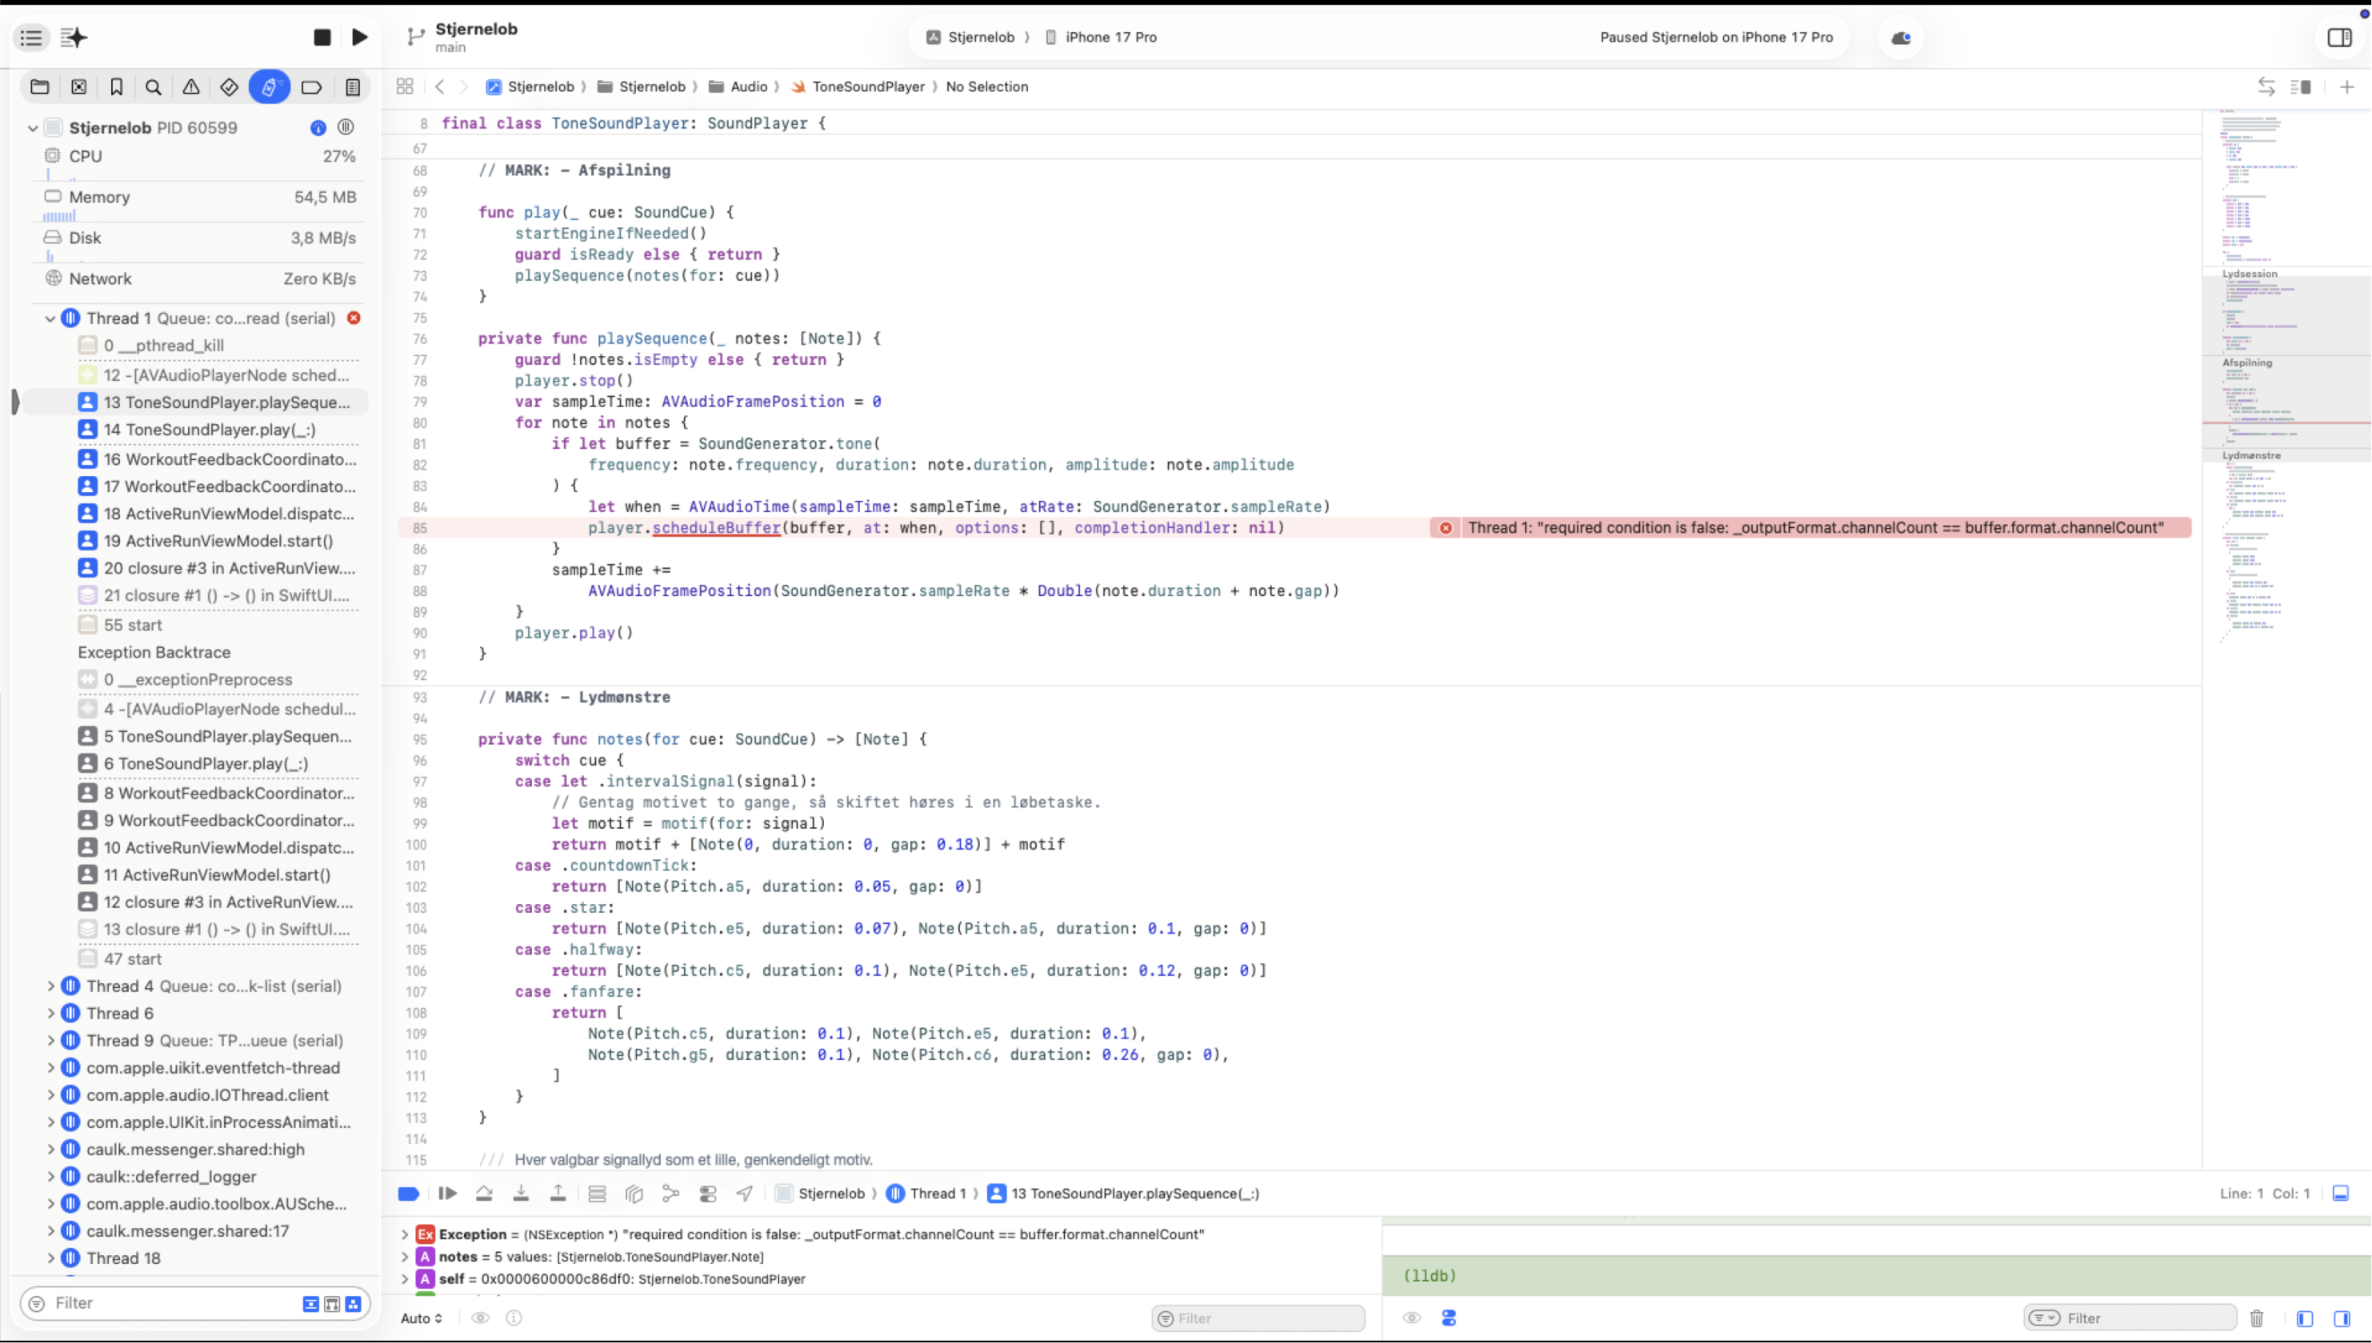
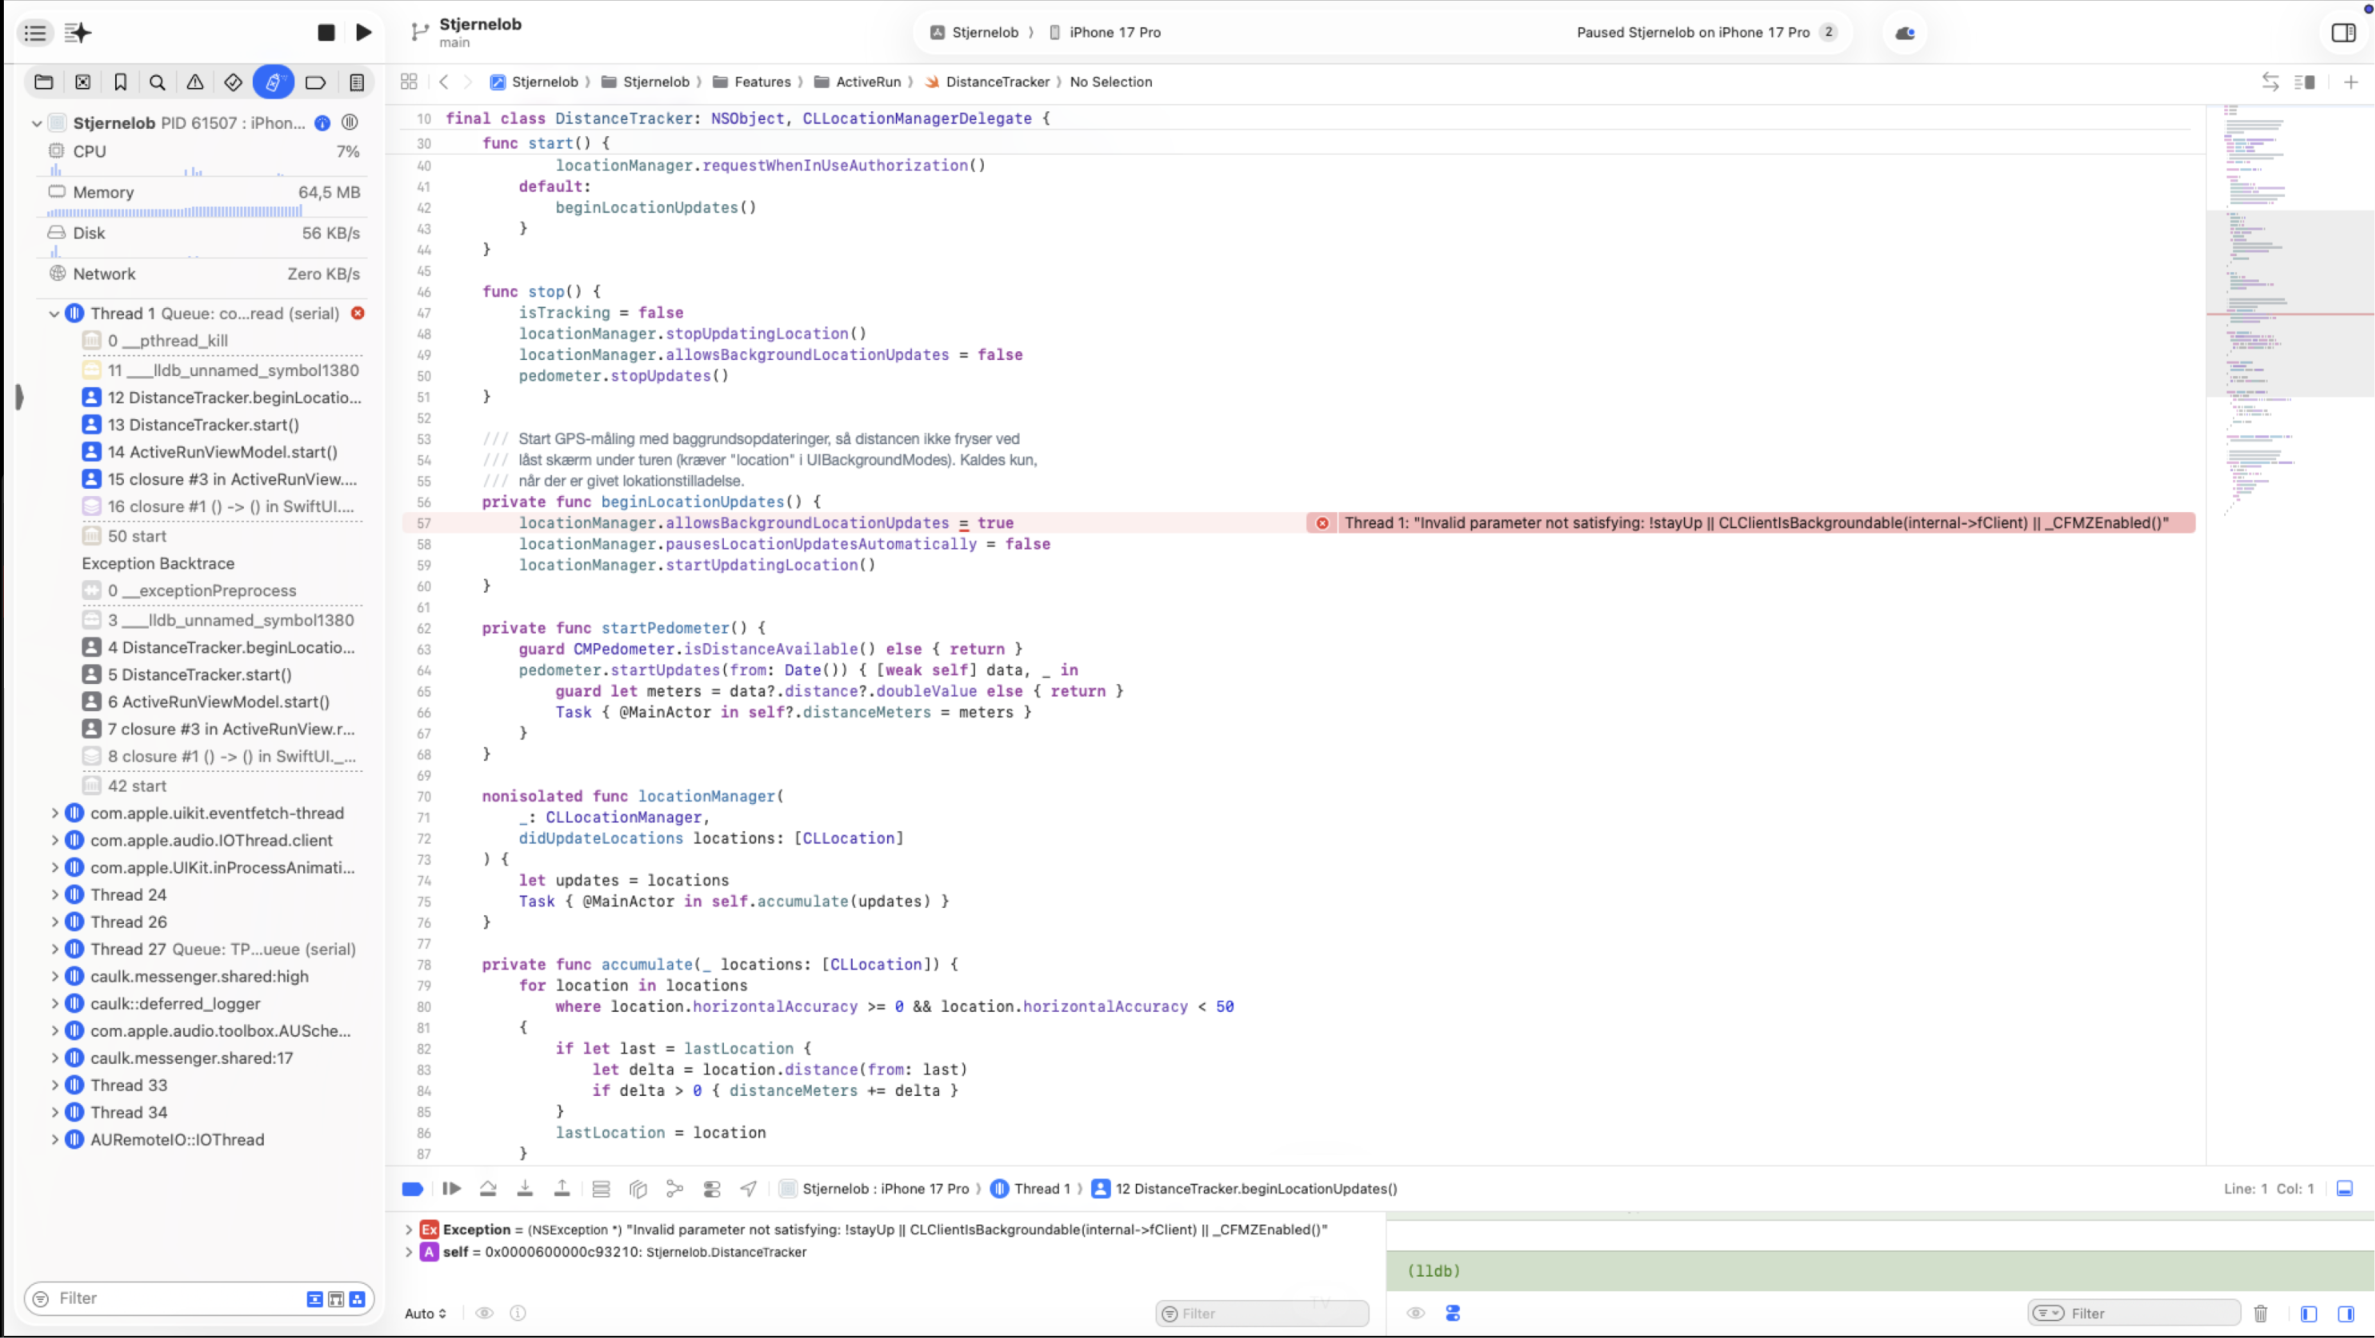
Ret crash ved turstart: sæt kun baggrundslokation når det er tilladt
allowsBackgroundLocationUpdates = true er en hård assertion, der crasher
("CLClientIsBackgroundable …"), hvis appen ikke er "backgroundable" — fx på
simulatoren, eller hvis "location" ikke ligger i UIBackgroundModes. Den blev sat
ubetinget ved turstart. Nu gates den: aldrig på simulator, og på device kun hvis
Info.plist faktisk erklærer location-baggrundstilstanden. Distancen måles stadig
(foreground) i de tilfælde — bare uden baggrundsopdatering. Samme guard på uret.

diff --git a/App/Stjernelob/Features/ActiveRun/DistanceTracker.swift b/App/Stjernelob/Features/ActiveRun/DistanceTracker.swift
@@ -50,13 +50,28 @@ final class DistanceTracker: NSObject, CLLocationManagerDelegate {
         pedometer.stopUpdates()
     }
 
-    /// Start GPS-måling med baggrundsopdateringer, så distancen ikke fryser ved
-    /// låst skærm under turen (kræver "location" i UIBackgroundModes). Kaldes kun,
-    /// når der er givet lokationstilladelse.
+    /// Start GPS-måling. Slår baggrundsopdateringer til, så distancen ikke fryser
+    /// ved låst skærm under turen — men kun når det rent faktisk er tilladt.
+    /// `allowsBackgroundLocationUpdates = true` er en hård assertion, der crasher,
+    /// hvis appen ikke er "backgroundable" (fx på simulator eller hvis "location"
+    /// ikke er i UIBackgroundModes). Kaldes kun, når der er givet lokationstilladelse.
     private func beginLocationUpdates() {
-        locationManager.allowsBackgroundLocationUpdates = true
-        locationManager.pausesLocationUpdatesAutomatically = false
+        if Self.backgroundLocationAllowed {
+            locationManager.allowsBackgroundLocationUpdates = true
+            locationManager.pausesLocationUpdatesAutomatically = false
+        }
         locationManager.startUpdatingLocation()
+    }
+
+    /// Om baggrundslokation er tilladt i dette miljø. Falsk på simulator (ikke
+    /// understøttet) og hvis Info.plist ikke erklærer "location"-baggrundstilstand.
+    private static var backgroundLocationAllowed: Bool {
+        #if targetEnvironment(simulator)
+            false
+        #else
+            let modes = Bundle.main.object(forInfoDictionaryKey: "UIBackgroundModes") as? [String]
+            return modes?.contains("location") ?? false
+        #endif
     }
 
     private func startPedometer() {

diff --git a/App/StjernelobWatch/WatchDistanceTracker.swift b/App/StjernelobWatch/WatchDistanceTracker.swift
@@ -44,10 +44,14 @@ final class WatchDistanceTracker: NSObject, CLLocationManagerDelegate {
         pedometer.stopUpdates()
     }
 
-    /// Start GPS-måling med baggrundsopdateringer, så distancen måles videre, mens
-    /// håndleddet er nede (sammen med en aktiv HKWorkoutSession).
+    /// Start GPS-måling. Slår baggrundsopdateringer til (sammen med en aktiv
+    /// HKWorkoutSession), så distancen måles videre med håndleddet nede — men kun
+    /// når det er tilladt. `allowsBackgroundLocationUpdates = true` crasher hårdt
+    /// på simulatoren, så vi sætter det kun på et rigtigt ur.
     private func beginLocationUpdates() {
-        locationManager.allowsBackgroundLocationUpdates = true
+        #if !targetEnvironment(simulator)
+            locationManager.allowsBackgroundLocationUpdates = true
+        #endif
         locationManager.startUpdatingLocation()
     }
 